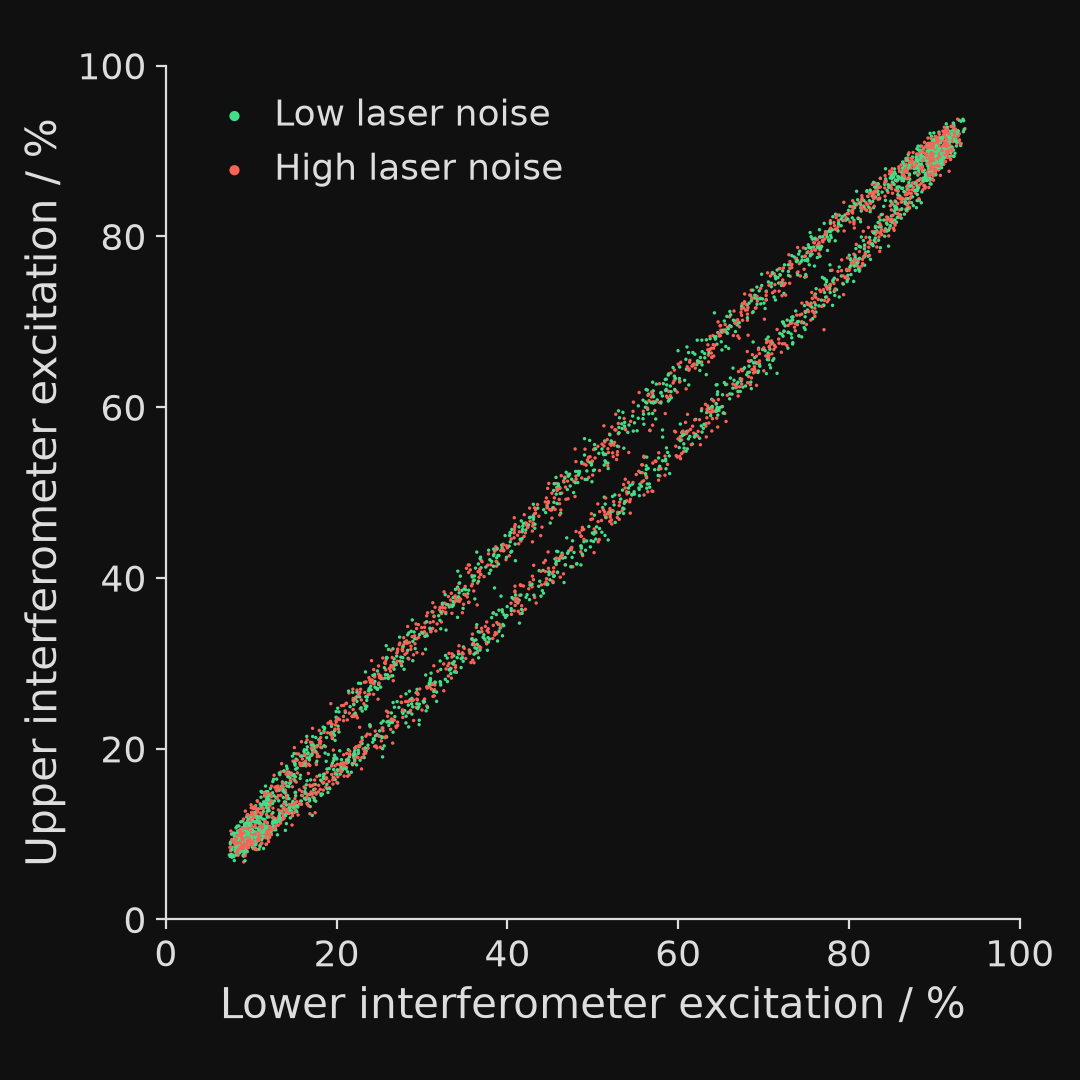
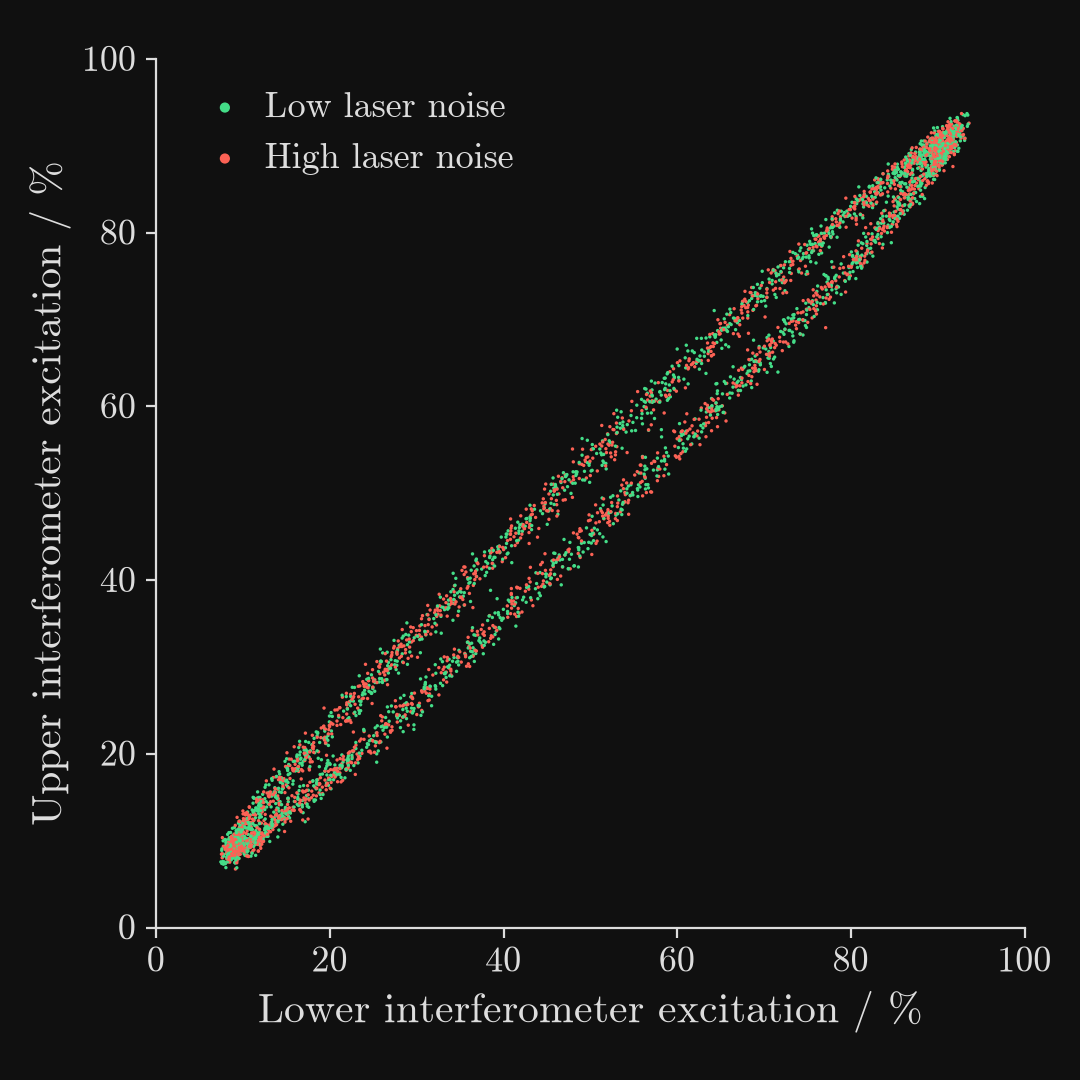
Deck review: clear overlaps, match layouts, serif data figures
Overlaps: light-shift citation moved off the laser label (top right);
LIGO data image clear of the citation line; Michelson laser, photodetector
and scale line clear of the frame edge, footer and slide number; chambers
collage above its citation; AICE citation outlined over the photo; ULDM
field marker held at the trace's end, off its label; rings clear of the
= and + (wider term spacing); gradiometer budget raised off the lower
cloud's last leg; clock-phase lower-leg label past the effect box; 689 nm
label clear of its arrow.

Layout: single-photon MZ title top left, levels top right; velocity-slicing
timeline bottom right with a larger level scheme, as its neighbours;
sensitivity landscape titled; slide 10 retitled "LIGO's first GW
detection"; idle sequence references brighter; larger ULDM inset text;
delta label outside the level lines.

Allan deviation and extracted-signal figures regenerated in Computer
Modern (deck_fonts()).

diff --git a/talk/aion_slides.py b/talk/aion_slides.py
@@ -382,6 +382,7 @@ class MergerOnSensitivityPlotSlide(Clicks, MergerOnSensitivityPlot):
     The left panel becomes real LIGO data at the end, so its citation joins
     the detector paper under the same "LIGO" label."""
 
+    TITLE = r"LIGO's first GW detection"
     CITE = (LIGO_PAPER, *MERGER_PAPERS)
     CITE_CORNER = DR  # under the plot, clear of the LIGO figure's time axis
 
@@ -401,6 +402,10 @@ class SensitivityLandscapeSlide(Clicks, SensitivityBuildUp):
     """The landscape without AEDGE: AION's three stages fill the gap."""
 
     GAP_FILLERS = ("AION-10", "AION-100", "AION-km")
+    TITLE = r"Gravitational wave sensitivity landscape"
+    # brought down under the title, and up off the citation lines
+    PLOT_ORIGIN = np.array([-4.9, -2.45, 0.0])
+    PLOT_HEIGHT = 5.3
     CITE = (
         LIGO_PAPER,
         ("LISA", "LISA:2017pwj"),
@@ -408,7 +413,6 @@ class SensitivityLandscapeSlide(Clicks, SensitivityBuildUp):
         ("AION-10/100/km", "badurinaAIONAtomInterferometer2020"),
         *MERGER_PAPERS,
     )
-    CITE_CORNER = UR  # the plot fills the slide down to its axis label
 
 
 class GradiometerGWStretchSlide(Clicks, GradiometerGWStretchContinuous):
@@ -531,7 +535,8 @@ class AIONChambersSlide(DeckSlide):
 
     def construct(self):
         title = slide_title(r"AION chambers across the UK")
-        figure = load_image(MEDIA / "aion_chambers.png", height=6.9)
+        # ends above the citation line rather than under it
+        figure = load_image(MEDIA / "aion_chambers.png", height=6.3)
         figure.next_to(title, DOWN, buff=0.25).set_x(0)
         self.play(FadeIn(title), FadeIn(figure), run_time=0.8)
 
@@ -574,6 +579,7 @@ class LightShiftSignalSlide(Clicks, LightShiftSignalContinuous):
     dials."""
 
     CITE = (DAI_PAPER,)
+    CITE_CORNER = UR  # bottom left is the laser's label
 
     # the image's two columns, as fractions of its width from the left
     IMAGE_COLUMNS = {"S": (0.27, ATOM_COLOR), "P": (0.78, KICKED_COLOR)}
@@ -697,6 +703,11 @@ class AICECernSlide(DeckSlide):
     marked on it and what it is for in a box under the title."""
 
     CITE = ("arduiniTechnicalProposalAtom2026",)
+
+    def citation(self):
+        # the figure runs edge to edge, so the line sits on the photo: outlined
+        # in the background colour, as the slide number is
+        return super().citation().set_stroke(PLOT_BACKGROUND, width=4, background=True)
 
     def construct(self):
         figure = load_image(MEDIA / "aice.png", width=config.frame_width)

diff --git a/src/aionanim/scenes/gravitational_waves.py b/src/aionanim/scenes/gravitational_waves.py
@@ -341,6 +341,7 @@ class BlackHoleMerger(ThreeDScene):
         frame_center=[0.0, 0.0, -0.45],
     )
     AMBIENT_ROTATION = 0.02  # rad/s
+    TITLE = r"Gravitational waves from a binary black hole merger"
 
     def entrance(self, clock):
         """Animations to play as the sheet and the title come in."""
@@ -377,10 +378,7 @@ class BlackHoleMerger(ThreeDScene):
 
         # --- 1. flat spacetime -------------------------------------------
         sheet = make_sheet()
-        title = Tex(
-            r"Gravitational waves from a binary black hole merger",
-            font_size=FONT_TITLE,
-        ).to_corner(UL)
+        title = Tex(self.TITLE, font_size=FONT_TITLE).to_corner(UL)
         self.add_fixed_in_frame_mobjects(title)
         self.play(
             FadeIn(sheet, run_time=1.5), FadeIn(title, run_time=1.0), *self.entrance(clock)
@@ -488,10 +486,11 @@ SIDE_TRACE_WIDTH = 6.4
 # Once the sheet settles, the left panel becomes what LIGO actually recorded
 # from GW150914 -- a 36 + 29 Msun merger at z = 0.09, so a near twin of the
 # track on the right. Its pure black is lifted to the talk's background so
-# the image has no visible edge.
+# the image has no visible edge. Its time axis ends clear of the footer's
+# citation line.
 LIGO_DATA_IMAGE = data_path("images", "ligo20160211a.jpg")
-LIGO_DATA_HEIGHT = 6.3
-LIGO_DATA_CENTER = np.array([SIDE_SHEET_X, -0.75, 0.0])
+LIGO_DATA_HEIGHT = 5.9
+LIGO_DATA_CENTER = np.array([SIDE_SHEET_X, -0.5, 0.0])
 # The figure runs from t = 0.25 s to 0.46 s with the peak at 0.42 s: from
 # 0.17 s before merger (36 Hz on this track, the 35 Hz LIGO quote) on through
 # the ringdown. That stretch of the track is recoloured as the data comes in.

diff --git a/src/aionanim/scenes/slicing.py b/src/aionanim/scenes/slicing.py
@@ -23,10 +23,14 @@ from aionanim.tools.slicing import CLOUD_WIDTH, SlicingCloud, VelocityPlot
 # --- velocity-slicing layout ----------------------------------------------
 VS_STAGE = 6  # into STAGES
 VS_HEADING_CORNER = [-6.6, 3.7, 0]
-VS_TIMELINE_CENTER = [0.9, 3.3, 0]
-VS_LEVELS_CENTER = [5.35, 2.55, 0]
-VS_LEVELS_SCALE = 0.5
-VS_PLOT_CENTER = [1.4, -0.95, 0]
+# timeline bottom right and levels top right, where the other sequence
+# scenes keep them; the plot is raised and narrowed to end clear of both
+VS_TIMELINE_CENTER = [4.6, -2.95, 0]
+VS_LEVELS_CENTER = [5.2, 2.4, 0]
+VS_LEVELS_SCALE = 0.6
+VS_PLOT_CENTER = [0.55, -0.65, 0]
+VS_PLOT_WIDTH = 6.0
+VS_PLOT_HEIGHT = 3.0
 VS_CLOUD_CENTER = np.array([-4.7, -1.2, 0])
 VS_CLOCK_BEAM_SPAN = (-4.1, 0.7)  # the vertical clock beam, bottom to top
 VS_CLOCK_BEAM_WIDTH = CLOUD_WIDTH + 0.5
@@ -85,7 +89,8 @@ class VelocitySlicing(Scene):
         levels = SrLevels().scale(VS_LEVELS_SCALE).move_to(VS_LEVELS_CENTER)
         timeline = Timeline(STAGES[VS_STAGE - 1:VS_STAGE + 2]).move_to(VS_TIMELINE_CENTER)
         heading = stage_heading(STAGES[VS_STAGE]).move_to(VS_HEADING_CORNER, aligned_edge=UL)
-        plot = VelocityPlot(center=VS_PLOT_CENTER)
+        plot = VelocityPlot(center=VS_PLOT_CENTER, width=VS_PLOT_WIDTH,
+                            height=VS_PLOT_HEIGHT)
         cloud = SlicingCloud(VS_CLOUD_CENTER)
 
         clock_beam = gaussian_band([VS_CLOUD_CENTER[0], VS_CLOCK_BEAM_SPAN[0], 0],

diff --git a/src/aionanim/scenes/gw_landscape.py b/src/aionanim/scenes/gw_landscape.py
@@ -23,6 +23,7 @@ import numpy as np
 from manim import *
 
 from aionanim.tools.gw_plot import curve_points, detector_region, plot_point, sensitivity_axes
+from aionanim.tools.layout import slide_title
 from aionanim.physics.gw_signals import mass_tex, merger_track, phenom_a_frequencies
 from aionanim.style import *
 
@@ -115,6 +116,12 @@ def redshift_key(axes, redshifts):
 class SensitivityBuildUp(Scene):
     # The mid-band detectors brought in last, in order, one step each.
     GAP_FILLERS = ("AION-10", "AION-100", "AION-km", "AEDGE")
+    # None: the plot fills the slide. A title needs the plot brought down
+    # under it, so a subclass that sets one moves the plot too.
+    TITLE = None
+    PLOT_ORIGIN = PLOT_ORIGIN
+    PLOT_WIDTH = PLOT_WIDTH
+    PLOT_HEIGHT = PLOT_HEIGHT
 
     def beat(self):
         """The pause between steps; a click on the slide version."""
@@ -131,8 +138,10 @@ class SensitivityBuildUp(Scene):
 
     def construct(self):
         axes, frame = sensitivity_axes(
-            LOG_F_RANGE, LOG_H_RANGE, PLOT_ORIGIN, PLOT_WIDTH, PLOT_HEIGHT
+            LOG_F_RANGE, LOG_H_RANGE, self.PLOT_ORIGIN, self.PLOT_WIDTH, self.PLOT_HEIGHT
         )
+        if self.TITLE:
+            frame = VGroup(slide_title(self.TITLE), frame)
 
         # --- 1. LIGO and one merger ---------------------------------------
         first = merger(axes, *FIRST_MERGER, width=GW_TRACK_WIDTH)

diff --git a/src/aionanim/tools/uldm.py b/src/aionanim/tools/uldm.py
@@ -152,7 +152,9 @@ def field_marker(now):
     page says they are the same number.
     """
     def at():
-        t = now.get_value()
+        # held at the curve's end once lab time runs past it, rather than
+        # riding on over the trace's label
+        t = min(now.get_value(), DM_TRACE_X[1])
         return [t, DM_TRACE_Z + DM_TRACE_AMPLITUDE * dm_field(t), 0]
 
     return always_redraw(
@@ -245,9 +247,12 @@ def make_modulated_levels(now, center=DM_LEVELS, scale=1.0, text_scale=1.0):
             return VGroup()
         foot = resonant + RIGHT * s * DM_MARK_X
         bar = Line(foot, foot + UP * offset, color=LASER_COLOR, stroke_width=2)
+        # past the lines' right end, level with the bar: inside their span
+        # the resonance line and the moving level run through it
+        beside = [center[0] + s * DM_LEVEL_LENGTH / 2, foot[1] + 0.5 * offset, 0]
         label = MathTex(
             r"\delta", font_size=FONT_LEGEND * ts, color=LASER_COLOR
-        ).next_to(foot + UP * 0.5 * offset, RIGHT, buff=0.08 * ts)
+        ).next_to(beside, RIGHT, buff=0.08 * ts)
         group = VGroup(bar, label)
         group.set_opacity(min(1.0, abs(offset) / (0.5 * s * DM_LEVEL_SWING)))
         return group

diff --git a/src/aionanim/plots/dai_fringes.py b/src/aionanim/plots/dai_fringes.py
@@ -23,7 +23,9 @@ deviations ``data_scripts/process_dai_adev.py`` and the likelihood scans
   fitted to the differential phase against trial frequency, over the
   periodogram of the drive: the fit finds each one where it was put.
 
-Both return matplotlib Figures; saving them is the caller's business.
+Both return matplotlib Figures; saving them is the caller's business. Build
+and save them inside ``deck_fonts()`` to set them in the deck's Computer
+Modern rather than matplotlib's sans.
 """
 
 import csv
@@ -55,6 +57,22 @@ LISSAJOUS_CHUNK = LISSAJOUS_SHOTS // 10
 
 LABEL_SIZE = 15
 TICK_SIZE = 13
+
+# Computer Modern, the face LaTeX sets every other slide in. cmr10 ships with
+# matplotlib but has no Unicode minus, so ticks are drawn as mathtext.
+DECK_RC = {
+    "font.family": "serif",
+    "font.serif": ["cmr10"],
+    "mathtext.fontset": "cm",
+    "axes.formatter.use_mathtext": True,
+    "axes.unicode_minus": False,
+}
+
+
+def deck_fonts():
+    """A context to build and save the figures in: tick labels are made when
+    a figure is drawn, so the fonts have to hold until it is saved."""
+    return plt.rc_context(DECK_RC)
 
 
 def hexed(color):

diff --git a/src/aionanim/tools/sequence.py b/src/aionanim/tools/sequence.py
@@ -105,7 +105,10 @@ TRANSITIONS = {
                 linewidth=r"30\,\mathrm{MHz}"),
     "689": dict(upper=r"{}^3P_1", color=TRANSITION_689_COLOR, double=False,
                 start=(0.0, LV_GROUND), end=(1.9, LV_3P[1]), side=LEFT,
-                linewidth=r"7.4\,\mathrm{kHz}"),
+                linewidth=r"7.4\,\mathrm{kHz}",
+                # further out: the arrow leans under its label, so at the
+                # default the linewidth line runs into it
+                label_buff=0.55),
     "698": dict(upper=r"{}^3P_0", color=TRANSITION_698_COLOR, double=True,
                 start=(0.45, LV_GROUND), end=(2.3, LV_3P[0]), side=RIGHT,
                 linewidth=r"{\sim}1\,\mathrm{mHz}"),
@@ -168,7 +171,7 @@ def _transition(key, color, width):
         Tex(f"{key} nm", font_size=FONT_LEGEND, color=color),
         MathTex(spec["linewidth"], font_size=FONT_LINEWIDTH, color=color),
     ).arrange(DOWN, buff=0.1, aligned_edge=-spec["side"])
-    label.next_to(arrow.get_center(), spec["side"], buff=0.3)
+    label.next_to(arrow.get_center(), spec["side"], buff=spec.get("label_buff", 0.3))
     return VGroup(arrow, label)
 
 

diff --git a/src/aionanim/tools/single_photon.py b/src/aionanim/tools/single_photon.py
@@ -18,13 +18,12 @@ from aionanim.tools.primitives import (
 # photon does the work, and the laser's phase is written into the atom once
 # per pulse instead of twice.
 #
-# The diagram sits upper left and doubles as the figure's key: |g> carries
+# The diagram sits upper right and doubles as the figure's key: |g> carries
 # ATOM_COLOR and |e> carries KICKED_COLOR, which are the colours the two arms
 # are drawn in, so it says everything a separate legend would and also says
-# what the pulses are resonant with. Upper left is the one corner it can sit
-# in -- the mirror's emitted photons climb the column x = MZ_B[0] and out of
-# the top of the frame, and the title already occupies the right.
-SP_LEVELS = np.array([-5.5, 2.05, 0.0])  # centre of the gap
+# what the pulses are resonant with. The title takes the upper left, as on
+# every slide, and the interferometer's ports end well short of this corner.
+SP_LEVELS = np.array([5.0, 2.05, 0.0])  # centre of the gap
 SP_LEVEL_LENGTH = 1.6
 SP_LEVEL_GAP = 1.6  # vertical separation of the two levels
 SP_LEVEL_INSET = 0.1  # how far the gap arrow stands off each level line

diff --git a/src/aionanim/scenes/ligo.py b/src/aionanim/scenes/ligo.py
@@ -29,8 +29,8 @@ from aionanim.tools.primitives import make_guide
 # detector on a dark fringe to begin with.
 BS = np.array([-2.6, -1.1, 0.0])
 ARM = 3.7  # drawn length of each arm
-LASER = BS + LEFT * 3.2
-DETECTOR = BS + DOWN * 2.3
+LASER = BS + LEFT * 3.0  # the box's left edge clear of the frame's
+DETECTOR = BS + DOWN * 2.0  # the photodiode's body clear of the footer
 X_END = BS + RIGHT * ARM  # the x arm's test mass, at rest
 Y_END = BS + UP * ARM  # the y arm's test mass, at rest
 
@@ -423,7 +423,8 @@ def make_equation(panel=FULL_FRAME):
         r"= \frac{4\pi L}{\lambda}\, h", font_size=FONT_ANNOTATION
     )
     in_h.next_to(readout, DOWN, buff=0.25).align_to(readout[1], LEFT)
-    VGroup(readout, in_h).move_to([np.mean(PANEL_X), -2.4, 0])
+    # high enough that the scale line under it clears the slide number
+    VGroup(readout, in_h).move_to([np.mean(PANEL_X), -2.15, 0])
     scale = MathTex(
         r"h \sim 10^{-21},\ L = 4\,\mathrm{km}"
         r"\ \Rightarrow\ \Delta L \sim 10^{-18}\,\mathrm{m}",

diff --git a/src/aionanim/tools/clock.py b/src/aionanim/tools/clock.py
@@ -241,12 +241,13 @@ def budget_equation(lhs, term_prefix="", font_size=FONT_STATE):
 
     One MathTex with the terms as separate substrings: LaTeX still sets it as
     one expression, so the relation lines up, but each term is a submobject
-    that can be circled or struck through on its own. The thin spaces keep a
-    mark clear of the + in front of its term. Whatever the left-hand side is,
+    that can be circled or struck through on its own. The spaces round each
+    term are wider than a ring stands off it (RING_BUFF), so a ring clears the
+    = and + on either side. Whatever the left-hand side is,
     it stays a single substring, so the terms keep the same indices.
     """
-    def term(name, trailing=r"\,"):
-        return r"\," + term_prefix + r"\Phi_{\text{" + name + r"}}" + trailing
+    def term(name, trailing=r"\;\;"):
+        return r"\;\;" + term_prefix + r"\Phi_{\text{" + name + r"}}" + trailing
 
     return MathTex(
         lhs, "=", term("propagation"), "+", term("laser", trailing=""),

diff --git a/src/aionanim/scenes/single_photon.py b/src/aionanim/scenes/single_photon.py
@@ -50,13 +50,14 @@ class SinglePhotonMachZehnder(MachZehnder):
 
     def construct(self):
         # --- 1. setup ----------------------------------------------------
-        # Title right, levels left: the two photons stimulated out of the
-        # upper arm at the mirror fly straight up x = MZ_B[0] and off the top
-        # of the frame, so that column has to stay clear of both.
+        # Title top left, as on every slide, levels top right. The two
+        # photons stimulated out of the upper arm at the mirror fly straight
+        # up x = MZ_B[0] and off the top of the frame, crossing the title on
+        # their way out.
         title = Tex(
             r"Single-photon Mach--Zehnder: $\pi/2 - \pi - \pi/2$",
             font_size=FONT_TITLE,
-        ).to_corner(UR)
+        ).to_corner(UL)
         levels = make_level_diagram()
         self.play(FadeIn(title), FadeIn(levels), run_time=1.0)
         self.beat()

diff --git a/src/aionanim/tools/slicing.py b/src/aionanim/tools/slicing.py
@@ -60,7 +60,7 @@ class VelocityPlot(VGroup):
     thermal curve dashed, for comparing the slice against at the end.
     """
 
-    def __init__(self, center=ORIGIN, **kwargs):
+    def __init__(self, center=ORIGIN, width=PLOT_WIDTH, height=PLOT_HEIGHT, **kwargs):
         super().__init__(**kwargs)
         # placed before anything is drawn from it: the curves that come and go
         # are built in the axes' coordinates and aren't part of this group. The
@@ -70,8 +70,8 @@ class VelocityPlot(VGroup):
         self.axes = Axes(
             x_range=[0, SLICE_U_RANGE[1] - SLICE_U_RANGE[0], 1],
             y_range=[0, PLOT_Y_MAX, 1],
-            x_length=PLOT_WIDTH,
-            y_length=PLOT_HEIGHT,
+            x_length=width,
+            y_length=height,
             tips=False,
             axis_config=dict(
                 color=PLOT_FOREGROUND, stroke_width=2, include_ticks=False
